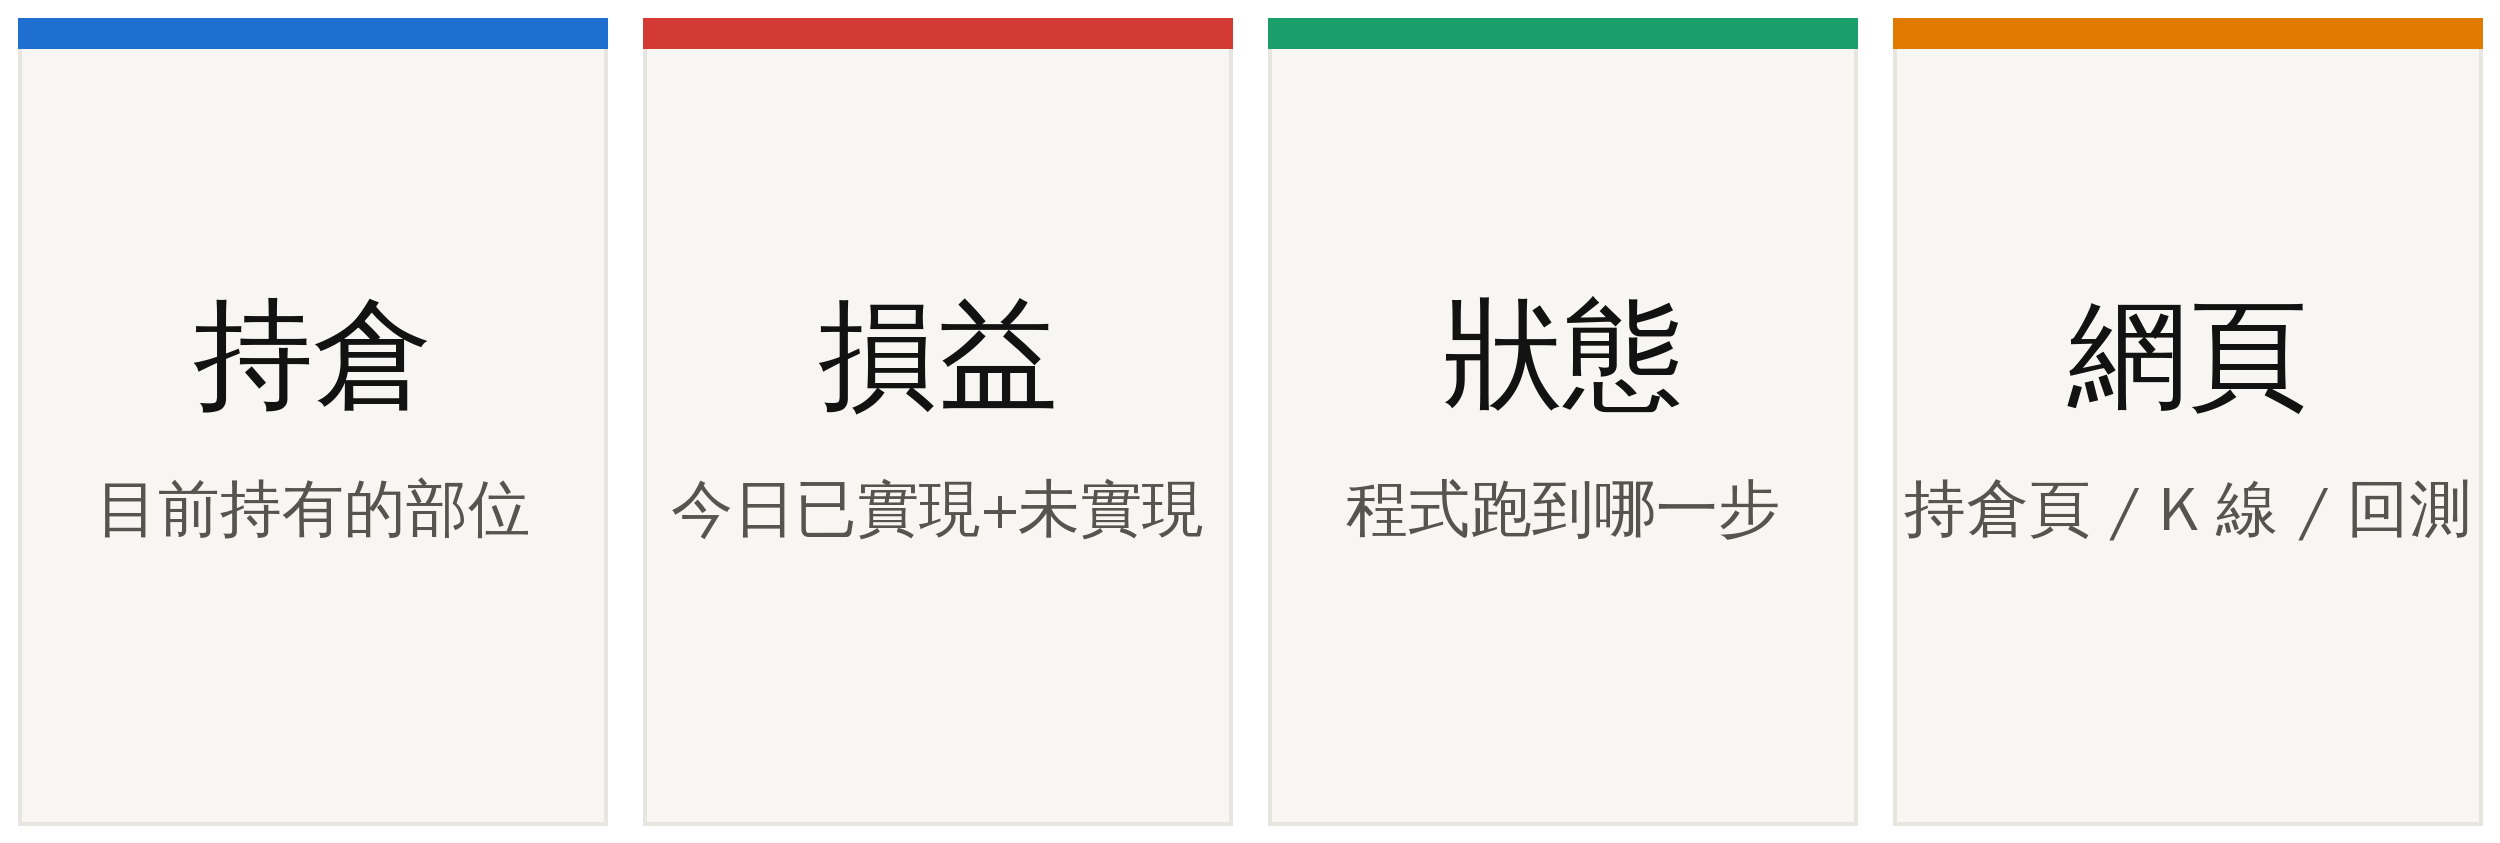
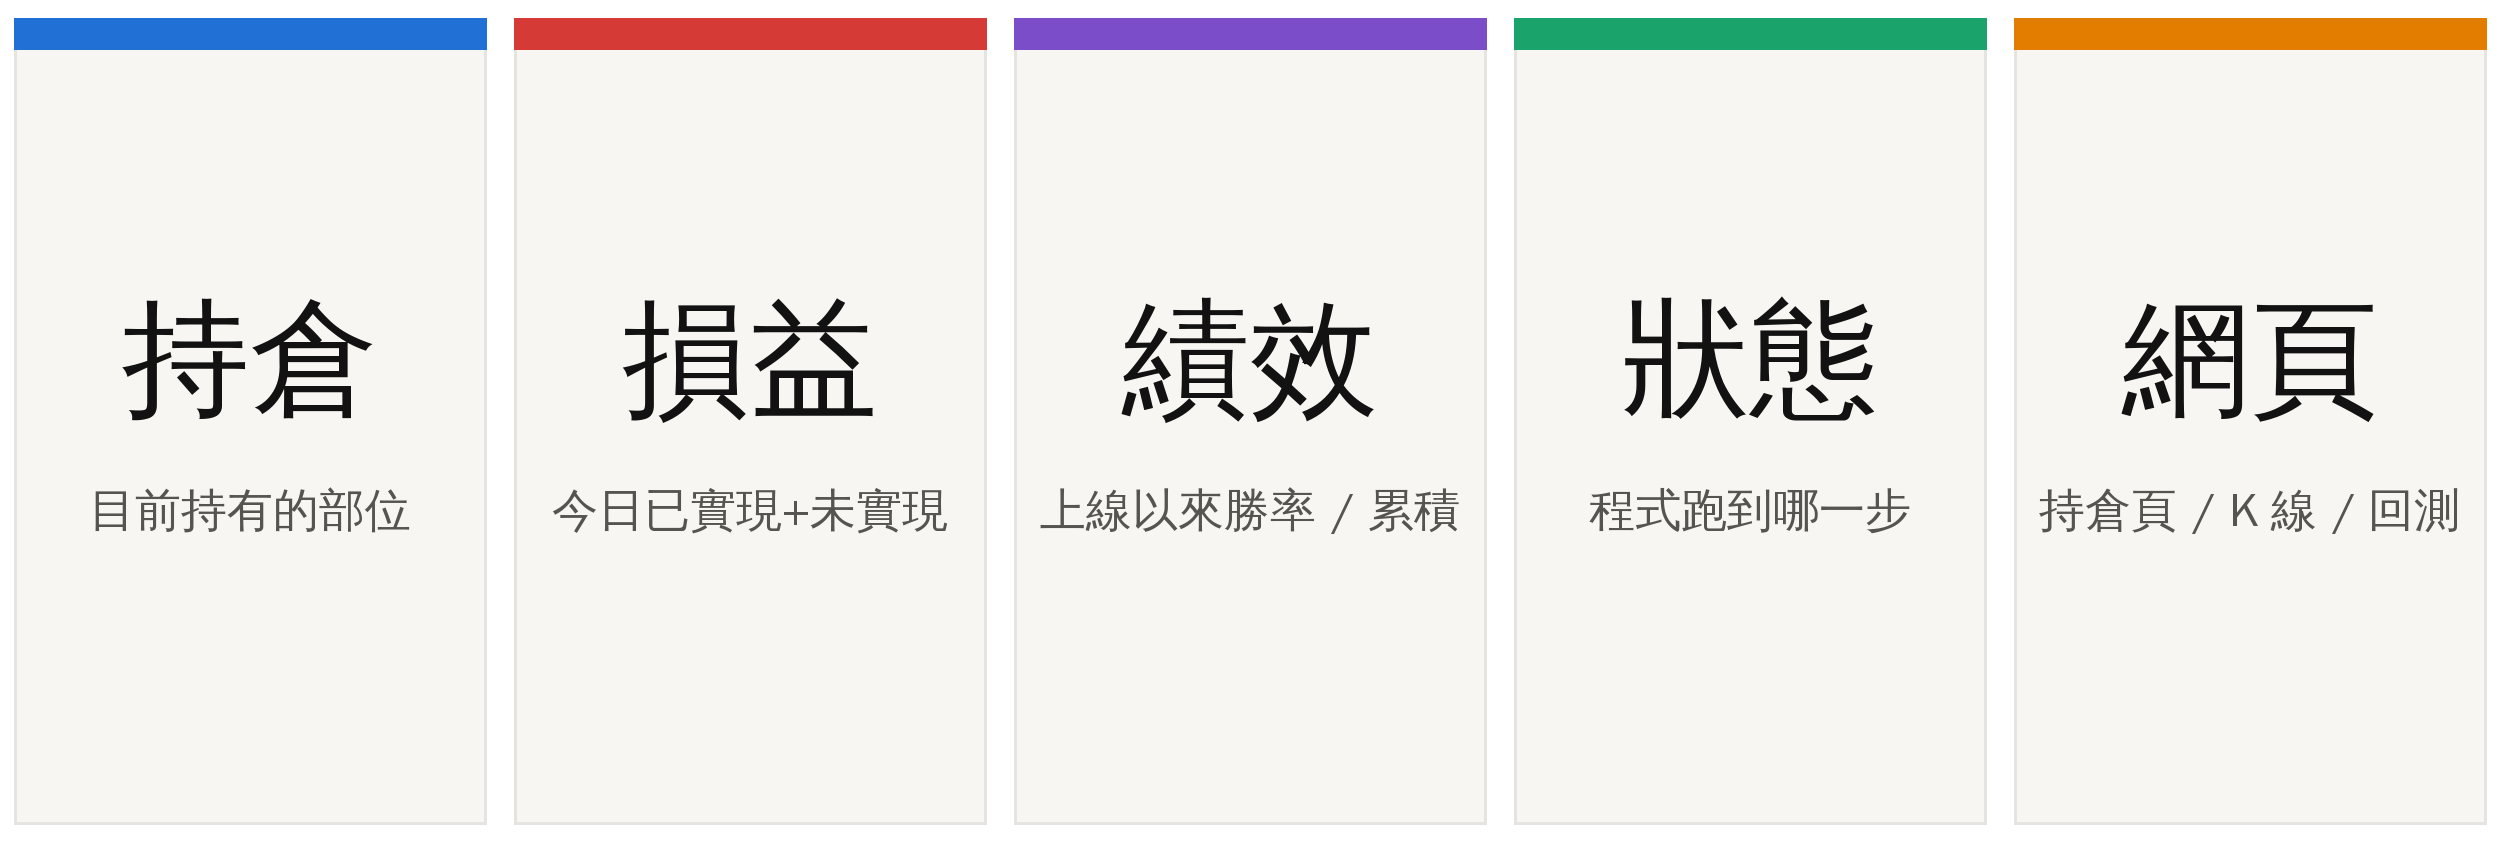
LINE rich menu: add 績效 (five cells)
Claude-Session: https://claude.ai/code/session_01LQ4SjhSzJwJMjS3n9UQYHx

diff --git a/line_bot/setup_line.py b/line_bot/setup_line.py
@@ -1,6 +1,6 @@
 #!/usr/bin/env python3
 """LINE 官方帳號設定 (由 .github/workflows/line_bot.yml 執行, 也可本機跑):
-  richmenu           建立 / 更新聊天室下方的選單 (持倉 / 損益 / 狀態 / 網頁), 設成預設; 舊的同名選單會刪掉
+  richmenu           建立 / 更新聊天室下方的選單 (持倉 / 損益 / 績效 / 狀態 / 網頁), 設成預設; 舊的同名選單會刪掉
   webhook <url>      把 Messaging API 的 webhook 網址設成 Cloudflare Worker, 並測試連線
 token 只從環境變數 LINE_CHANNEL_ACCESS_TOKEN 讀, 不印出。"""
 import json, os, sys
@@ -20,9 +20,9 @@ def call(method, url, **kw):
 def richmenu():
     for m in call("GET", f"{API}/richmenu/list").get("richmenus", []):
         if m.get("name") == NAME: call("DELETE", f"{API}/richmenu/{m['richMenuId']}"); print("刪除舊選單", m["richMenuId"])
-    w = 2500 // 4
-    acts = [{"type": "message", "text": "持倉"}, {"type": "message", "text": "損益"}, {"type": "message", "text": "狀態"},
+    acts = [{"type": "message", "text": "持倉"}, {"type": "message", "text": "損益"}, {"type": "message", "text": "績效"}, {"type": "message", "text": "狀態"},
             {"type": "uri", "uri": SITE + "today.html"}]
+    w = 2500 // len(acts)
     body = {"size": {"width": 2500, "height": 843}, "selected": True, "name": NAME, "chatBarText": "查持倉 / 損益",
             "areas": [{"bounds": {"x": i * w, "y": 0, "width": w, "height": 843}, "action": a} for i, a in enumerate(acts)]}
     mid = call("POST", f"{API}/richmenu", json=body)["richMenuId"]

diff --git a/README.md b/README.md
@@ -340,9 +340,9 @@ LINE 功能分三層, 之後擴充照這個放:
 | 層 | 誰觸發 | 程式 | 額度 |
 |---|---|---|---|
 | 推播 | 程式主動 (進場、停損、提醒、結算、不交易、出錯) | `scripts/orb_live.py` `Line` | 吃每月 push 額度 (免費 200 則) |
-| 選單 | 使用者點聊天室下方選單 (持倉 / 損益 / 狀態 / 網頁) | `line_bot/setup_line.py richmenu` + `richmenu.png` | 不吃 |
+| 選單 | 使用者點聊天室下方選單 (持倉 / 損益 / 績效 / 狀態 / 網頁) | `line_bot/setup_line.py richmenu` + `richmenu.png` | 不吃 |
 | 指令機器人 | 使用者打字 (持倉、損益、績效、狀態、網頁、說明、四碼代號) | `line_bot/worker.js` (Cloudflare Worker, webhook) | reply 免費 |
-- 機器人只讀已經上傳的 `db/orb/live.json` 與 `db/orb/paper/live.json`, 不碰交易程式；只回應 `LINE_USER_ID`。**加新指令**: 在 `worker.js` 的 `COMMANDS` 加一筆 `{ keys, desc, run(ctx) }` (ctx = { live, paper }), 回傳 `card({ title, sub, blocks, footer })` (blocks 用 `kv` / `stockRow` / `tile` / `note` / `sep` 積木, 外觀一致)；推上 main 後 `LINE bot deploy` workflow 先用 `line_bot/test/validate.mjs` 把每個指令的回覆丟給 LINE validate API 檢查格式, 通過才重新部署。改選單: 改 `setup_line.py` 的 `acts` 與重畫 `richmenu.png` (2500×843, 四格)。
+- 機器人只讀已經上傳的 `db/orb/live.json` 與 `db/orb/paper/live.json`, 不碰交易程式；只回應 `LINE_USER_ID`。**加新指令**: 在 `worker.js` 的 `COMMANDS` 加一筆 `{ keys, desc, run(ctx) }` (ctx = { live, paper }), 回傳 `card({ title, sub, blocks, footer })` (blocks 用 `kv` / `stockRow` / `tile` / `note` / `sep` 積木, 外觀一致)；推上 main 後 `LINE bot deploy` workflow 先用 `line_bot/test/validate.mjs` 把每個指令的回覆丟給 LINE validate API 檢查格式, 通過才重新部署。改選單: 改 `setup_line.py` 的 `acts` 與重畫 `richmenu.png` (2500×843, 五格, 每格 500 寬)。
 - **績效** (2026-11-14): 打「績效」或在損益卡下方點快捷鈕。讀 `db/orb/web/live_index.json` (cloud_nightly 每晚重算, 收盤價已對 D1), 訊號 vs 模擬單: 累積損益、勝率 (含成本後賺錢筆數)、賺錢日、平均每筆、停損率、最大回撤、最佳/最差日、本週/本月、同期回測; 每日計數由 `export_live.perf_counts` 產生。資料品質分段 (11-12 前 MIS、11-10 異常) 寫在 worker.js `PERF_NOTES`。
 - 手機頁: `web/today.html` (今日持倉 / 損益: 訊號與模擬單、持有中 / 已停損 / 已回補、已實現 + 未實現, 盤中每 20 秒重讀；點股票開 `chart.html`)。
 - **一次性設定**: (1) Cloudflare 免費帳號 → My Profile → API Tokens → Create Token → 範本「Edit Cloudflare Workers」(只留 Account 範圍, 刪掉 Zone policy) → 得到 token (2026-11-11 已建「orb-line-bot (GitHub Actions)」)；Account ID 已寫在 `line_bot/wrangler.toml`。(2) GitHub repo Secrets 加 `CLOUDFLARE_API_TOKEN`、`LINE_CHANNEL_SECRET` (LINE Developers → channel → Basic settings → Channel secret)。(3) GitHub → Actions → **LINE bot deploy** → Run workflow: 部署 worker、設 webhook 網址並測試、建立選單。(4) LINE Developers → Messaging API → 打開 **Use webhook**；LINE Official Account Manager → 回應設定 → 關掉「自動回應訊息」(不然每句都會多一則罐頭回覆)。
